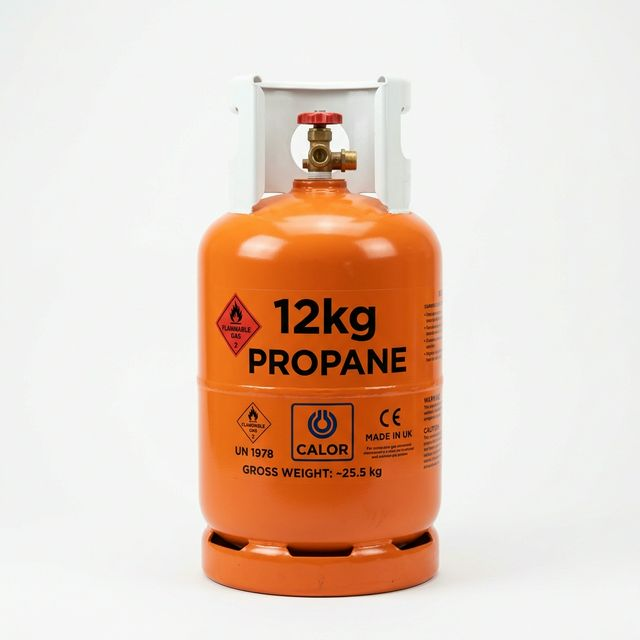
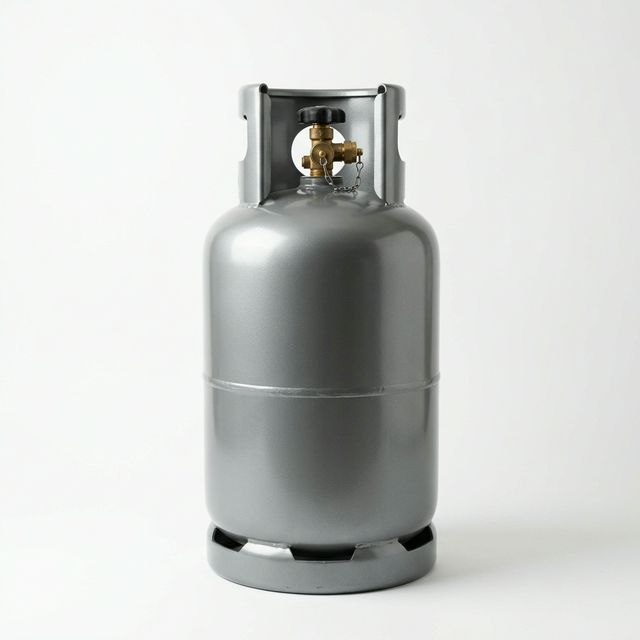
Mise à jour des images 6kg et 12kg (version conforme)

Changed region(s): [[0.2812, 0.125, 1.0, 0.9375]]

diff --git a/server/db.ts b/server/db.ts
@@ -38,10 +38,10 @@ db.exec(`
 const count = db.prepare('SELECT COUNT(*) as count FROM products').get() as { count: number };
 
 const products = [
-  { name: 'Bouteille Gaz 6kg',   description: 'Idéale pour les petits foyers et studios', price: 15.00, image: '/gaz_6kg.png',     category: 'bottle' },
-  { name: 'Bouteille Gaz 12kg',  description: 'La plus populaire pour les familles',       price: 25.00, image: '/gaz_12kg.png',    category: 'bottle' },
-  { name: 'Bouteille Gaz 20kg',  description: 'Pour la restauration et grands consommateurs', price: 40.00, image: '/gaz_20kg.png', category: 'bottle' },
-  { name: 'Kit Complet Brûleur', description: 'Brûleur + Tuyau + Détendeur inclus',        price: 10.00, image: '/kit_bruleur.png', category: 'accessories' },
+  { name: 'Bouteille Gaz 6kg',   description: 'Format compact idéal pour les petits foyers, facile à transporter.', price: 15.00, image: '/gaz_6kg.png',     category: 'bottle' },
+  { name: 'Bouteille Gaz 12kg',  description: 'Le format standard le plus utilisé pour la cuisine familiale quotidienne.', price: 25.00, image: '/gaz_12kg.png',    category: 'bottle' },
+  { name: 'Bouteille Gaz 20kg',  description: 'Grand format haute capacité pour les professionnels et familles nombreuses.', price: 40.00, image: 'https://images.unsplash.com/photo-1621213327685-611ff69e8ee4?w=800&q=80', category: 'bottle' },
+  { name: 'Kit Complet Brûleur', description: 'Ensemble complet comprenant : 1 Brûleur robuste, 1 Tuyau renforcé et 1 Détendeur certifié.', price: 10.00, image: 'https://images.unsplash.com/photo-1590779033100-9f60a05a013d?w=800&q=80', category: 'accessories' },
 ];
 
 if (count.count === 0) {
